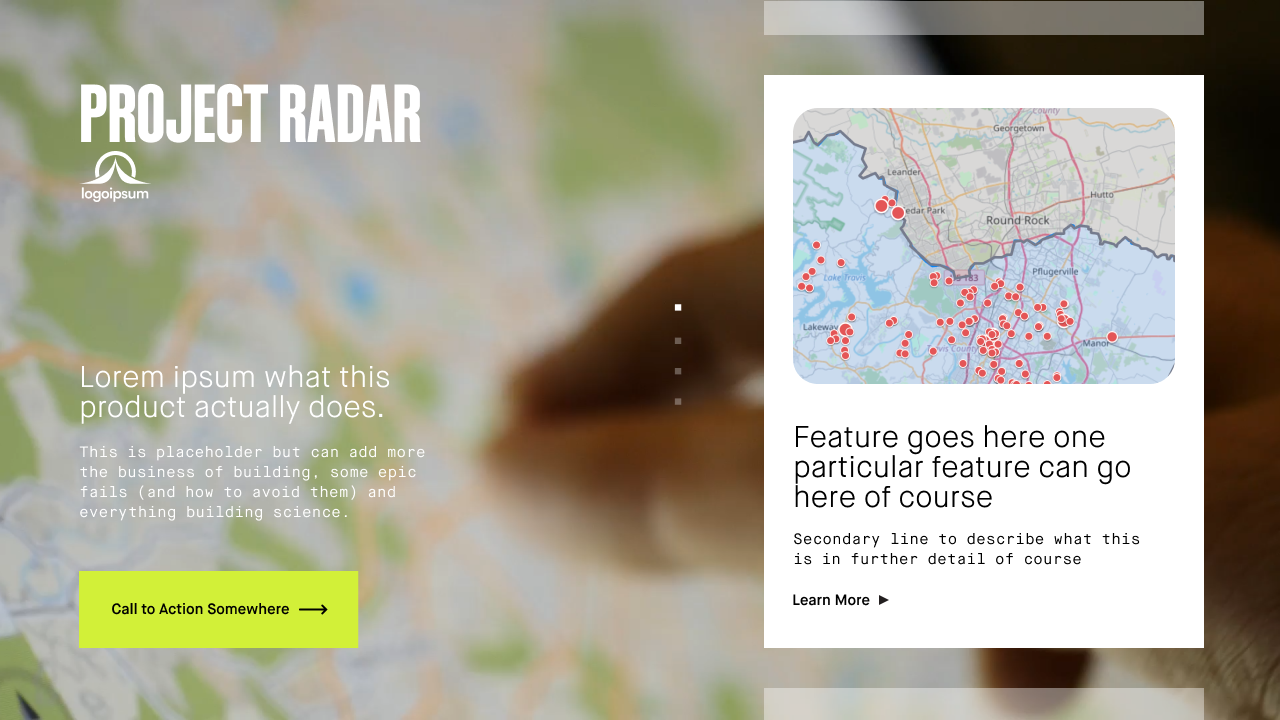
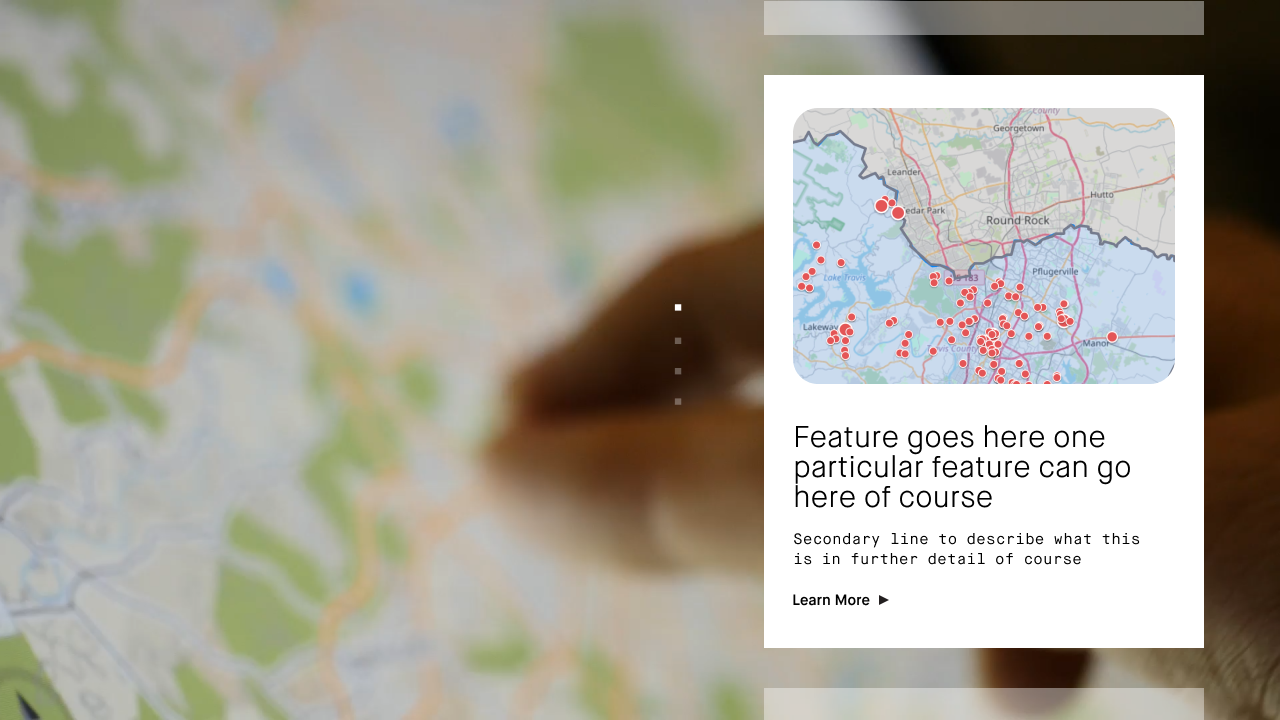
add-changes

diff --git a/src/components/GrowthPatners.jsx b/src/components/GrowthPatners.jsx
@@ -2,6 +2,7 @@ import React, { useState, useEffect } from 'react';
 import { useSearchParams } from 'react-router-dom';
 import CustomBoldHeadings from '../common/CustomBoldHeadings';
 import CustomHeading from '../common/CustomHeading';
+import { ButtonArrow, LogoIpsumIcon, NetWorkIcon } from '../utils/icons';
 
 const GrowthPartners = () => {
     const [searchParams, setSearchParams] = useSearchParams();
@@ -25,36 +26,48 @@ const GrowthPartners = () => {
     const renderTabContent = () => {
         if (activeTab === 1) {
             return (
-                <div className='tab-content'>
-                    <img
-                        src='/assets/images/png/growth-img-one.png'
-                        alt='Industry Expertise'
-                        className='w-full max-w-[1280px] mx-auto'
-                    />
+                <div className='bg-cover bg-no-repeat bg-center lg:bg-tabOneBgImg max-lg:bg-tabOneSmImg w-full max-w-[1280px] max-lg:h-full h-[720px] mx-auto'>
+                    <div className='ps-[79px] pt-[75px] max-lg:p-12 max-md:p-8 max-sm:p-5'>
+                        <h3 className='text-white font-bold text-custom8xl max-xl:text-6xl max-lg:text-5xl max-md:text-4xl font-sohne leading-[70px] max-w-[415px]'>the smartest minds in the
+                            industry</h3>
+                        <p className='max-w-[360px] font-light text-custom3xl max-md:text-2xl text-white leading-[30px]'>Answer our questions and listen to our answers.</p>
+                        <p className='max-w-[360px] mt-[31px] font-normal text-customsm font-maisonRegular leading-[20px] text-white'>This is placeholder but can add more the business of building, some epic fails (and how to avoid them) and everything building science.</p>
+                        <button className='max-lg:mb-6 max-sm:px-5 max-sm:py-4 max-sm:max-w-[245px] text-white font-medium font-maisonMedium text-customsm flex items-center py-[34.84px] px-[32px] border border-solid max-w-[256px] bg-[#FF4242] border-[#FF4242] gap-[10px] mt-[58px]'><NetWorkIcon /> Subscribe to Podcast <span className='text-[6px]'>▼</span></button>
+                        <div className=''>
+                            <img src="/assets/images/png/patners-logo-img.png" alt="logo" className='max-w-[189px] lg:hidden mx-auto' />
+                            <img src="/assets/images/png/tab-one-card.png" alt="card"  className='lg:hidden max-w-[320px] mt-5 mx-auto' />
+                        </div>
+                  </div>
                 </div>
             );
         }
 
         if (activeTab === 2) {
             return (
-                <div className='tab-content'>
-                    <img
-                        src='/assets/images/png/galaxy-img.png'
-                        alt='ROI Focused'
-                        className='w-full max-w-[1280px] mx-auto'
-                    />
+                <div className='bg-cover bg-no-repeat bg-center lg:bg-tabTwoBgImg max-lg:bg-tabTwoSmImg w-full max-w-[1337px] max-lg:h-full h-[720px] mx-auto'>
+                    <div className='pt-[75px] ps-[89px] max-lg:p-12 max-md:p-8 max-sm:p-5'>
+                    <h3 className='text-white font-bold text-custom8xl max-xl:text-6xl max-lg:text-5xl max-md:text-4xl font-sohne leading-[70px]'>Proven Results</h3>
+                        <p className='max-w-[360px] font-light text-custom3xl max-md:text-2xl max-lg:pb-7 text-white leading-[30px]'>Not hopes and prayers.</p>
+                        <img src="/assets/images/png/data-group.png" alt="data"  className='lg:hidden mx-auto'/>
+                        </div>
                 </div>
             );
         }
 
         if (activeTab === 3) {
             return (
-                <div className='tab-content'>
-                    <img
-                        src='/assets/images/png/project-rader-img.png'
-                        alt='Proprietary Technology'
-                        className='w-full max-w-[1280px] mx-auto'
-                    />
+                <div className='lg:bg-tabThreeBgImg max-lg:bg-tabThreeSmImg max-lg:h-full bg-cover bg-center bg-no-repeat w-full max-w-[1337px] h-[720px] mx-auto'>
+                    <div className='pt-[75px] ps-[79px] max-lg:p-12 max-md:p-8 max-sm:p-5'>
+                        <h3 className='text-white font-bold text-custom8xl max-xl:text-6xl max-lg:text-5xl max-md:text-4xl font-sohne leading-[70px]'>Project radar</h3>
+                        <p><LogoIpsumIcon /></p>
+                        <p className='pt-[162px] max-xl:pt-24 max-lg:pt-16 max-md:pt-11 max-sm:pt-8 max-w-[360px] font-light text-custom3xl max-md:text-2xl text-white leading-[30px]'>Lorem ipsum what this
+                            product actually does.</p>
+                        <p className='font-normal text-customsm leading-[20px] text-white font-maisonLight max-w-[360px] mt-[14px]'>This is placeholder but can add more the business of building, some epic fails (and how to avoid them) and everything building science.</p>
+                        <button className='max-lg:mb-6 mt-[57px] flex items-center text-black text-customsm font-semibold leading-[15px] py-[31px] gap-[10px] px-[28px] border border-solid bg-[#D2F038] border-[#D2F038] max-w-[274px]'>Call to Action Somewhere <ButtonArrow /> </button>
+                        <div className=''>
+                            <img src="/assets/images/png/card-data-img.png" alt="card-data" className='lg:hidden' />
+                        </div>
+                 </div>
                 </div>
             );
         }
@@ -71,9 +84,9 @@ const GrowthPartners = () => {
             </p>
 
             <div className='tabs-parent mt-[105px] max-xl:mt-16 max-lg:mt-10 max-md:mt-8 relative z-20'>
-                <div className='relative flex items-center justify-center gap-[78px]'>
+                <div className='relative max-md:overflow-x-scroll max-md:mx-auto max-md:gap-7 flex items-center justify-center gap-[78px]'>
                     <p
-                        className={`text-lg font-semibold text-black opacity-35 leading-[18px] font-maisonBold cursor-pointer ${activeTab === 1 ? 'text-black opacity-100' : ''
+                        className={`text-lg max-sm:text-base font-semibold  text-black opacity-35 leading-[18px] font-maisonBold cursor-pointer ${activeTab === 1 ? 'text-black !opacity-100' : ''
                             }`}
                         onClick={() => handleTabClick(1)}
                     >
@@ -87,7 +100,7 @@ const GrowthPartners = () => {
                         )}
                     </p>
                     <p
-                        className={`text-lg font-semibold text-black opacity-35 leading-[18px] font-maisonBold cursor-pointer ${activeTab === 2 ? 'text-black opacity-100' : ''
+                        className={`text-lg max-sm:text-base font-semibold text-black opacity-35 leading-[18px] font-maisonBold cursor-pointer ${activeTab === 2 ? 'text-black !opacity-100' : ''
                             }`}
                         onClick={() => handleTabClick(2)}
                     >
@@ -96,12 +109,12 @@ const GrowthPartners = () => {
                             <img
                                 src="/assets/images/png/tabs-bottm-red-line.png"
                                 alt="redline"
-                                className="mx-auto absolute"
+                                className="mx-auto absolute -translate-x-6"
                             />
                         )}
                     </p>
                     <p
-                        className={`text-lg font-semibold text-black opacity-35 leading-[18px] font-maisonBold cursor-pointer ${activeTab === 3 ? 'text-black opacity-100' : ''
+                        className={`text-lg max-sm:text-base font-semibold text-black opacity-35 leading-[18px] font-maisonBold cursor-pointer ${activeTab === 3 ? 'text-black !opacity-100' : ''
                             }`}
                         onClick={() => handleTabClick(3)}
                     >

diff --git a/src/utils/icons.js b/src/utils/icons.js
@@ -477,3 +477,88 @@ export const BtnArrow = () => (
     <path d="M10 5.00343L0 0V10L10 5.00343Z" fill="#231F20" />
   </svg>
 );
+
+export const NetWorkIcon = () => (
+  <svg
+    width="20"
+    height="23"
+    viewBox="0 0 20 23"
+    fill="none"
+    xmlns="http://www.w3.org/2000/svg"
+  >
+    <g clip-path="url(#clip0_583_5886)">
+      <path
+        d="M9.80992 12.9499C11.5441 12.9499 12.9499 11.5441 12.9499 9.80992C12.9499 8.07575 11.5441 6.66992 9.80992 6.66992C8.07575 6.66992 6.66992 8.07575 6.66992 9.80992C6.66992 11.5441 8.07575 12.9499 9.80992 12.9499Z"
+        fill="white"
+      />
+      <path
+        d="M10.8096 11.0601H8.80957V22.6801H10.8096V11.0601Z"
+        fill="white"
+      />
+      <path
+        d="M16.4202 9.80995C16.4202 6.16995 13.4602 3.19995 9.8102 3.19995C6.1602 3.19995 3.2002 6.15995 3.2002 9.80995C3.2002 12.39 4.6902 14.63 6.8602 15.71V14.57C5.2702 13.58 4.2002 11.82 4.2002 9.80995C4.2002 6.71995 6.7202 4.19995 9.8102 4.19995C12.9002 4.19995 15.4202 6.71995 15.4202 9.80995C15.4202 11.82 14.3602 13.58 12.7602 14.57V15.71C14.9202 14.62 16.4202 12.39 16.4202 9.79995V9.80995Z"
+        fill="white"
+      />
+      <path
+        d="M19.62 9.81C19.62 4.4 15.22 0 9.81 0C4.4 0 0 4.4 0 9.81C0 14.19 2.89 17.91 6.86 19.16V18.1C3.45 16.88 1 13.63 1 9.81C1 4.95 4.95 1 9.81 1C14.67 1 18.62 4.95 18.62 9.81C18.62 13.63 16.17 16.88 12.76 18.1V19.16C16.73 17.9 19.62 14.19 19.62 9.81Z"
+        fill="white"
+      />
+    </g>
+    <defs>
+      <clipPath id="clip0_583_5886">
+        <rect width="19.62" height="22.68" fill="white" />
+      </clipPath>
+    </defs>
+  </svg>
+);
+export const LogoIpsumIcon = () => (
+  <svg
+    width="73"
+    height="51"
+    viewBox="0 0 73 51"
+    fill="none"
+    xmlns="http://www.w3.org/2000/svg"
+  >
+    <path d="M4.71485 47.4124V36.4285H2.91406V47.4124H4.71485Z" fill="white" />
+    <path
+      d="M5.81738 43.7511C5.81738 45.9951 7.32298 47.5895 9.61084 47.5895C11.8987 47.5895 13.4043 45.9951 13.4043 43.7511C13.4043 41.507 11.8987 39.9126 9.61084 39.9126C7.32298 39.9126 5.81738 41.507 5.81738 43.7511ZM7.63291 43.7511C7.63291 42.4371 8.41525 41.5218 9.61084 41.5218C10.8064 41.5218 11.5888 42.4371 11.5888 43.7511C11.5888 45.0502 10.8064 45.9803 9.61084 45.9803C8.41525 45.9803 7.63291 45.0502 7.63291 43.7511Z"
+      fill="white"
+    />
+    <path
+      d="M14.0098 43.6032C14.0098 45.7291 15.3825 47.2645 17.4342 47.2645C18.497 47.2645 19.4121 46.8364 19.8697 46.1278V47.3678C19.8697 48.5636 19.1169 49.3609 17.8622 49.3609C16.7404 49.3609 15.9729 48.8146 15.8696 47.855H14.0541C14.2902 49.7595 15.7515 50.9996 17.7589 50.9996C20.1206 50.9996 21.6262 49.4494 21.6262 47.043V40.1191H20.0321L19.9287 41.1082C19.4859 40.3405 18.5708 39.8828 17.4932 39.8828C15.412 39.8828 14.0098 41.4625 14.0098 43.6032ZM15.8401 43.5589C15.8401 42.3483 16.6076 41.4625 17.7442 41.4625C18.9841 41.4625 19.8106 42.3631 19.8106 43.5589C19.8106 44.7695 18.9841 45.6996 17.7442 45.6996C16.6223 45.6996 15.8401 44.7843 15.8401 43.5589Z"
+      fill="white"
+    />
+    <path
+      d="M22.5176 43.7511C22.5176 45.9951 24.0232 47.5895 26.311 47.5895C28.5989 47.5895 30.1045 45.9951 30.1045 43.7511C30.1045 41.507 28.5989 39.9126 26.311 39.9126C24.0232 39.9126 22.5176 41.507 22.5176 43.7511ZM24.3331 43.7511C24.3331 42.4371 25.1154 41.5218 26.311 41.5218C27.5066 41.5218 28.2889 42.4371 28.2889 43.7511C28.2889 45.0502 27.5066 45.9803 26.311 45.9803C25.1154 45.9803 24.3331 45.0502 24.3331 43.7511Z"
+      fill="white"
+    />
+    <path
+      d="M32.053 38.628C32.6434 38.628 33.1306 38.1555 33.1306 37.5502C33.1306 36.9597 32.6434 36.4873 32.053 36.4873C31.4478 36.4873 30.9902 36.9597 30.9902 37.5502C30.9902 38.1555 31.4478 38.628 32.053 38.628ZM31.1526 47.4121H32.9534V40.1191H31.1526V47.4121Z"
+      fill="white"
+    />
+    <path
+      d="M34.5312 50.793H36.2877V46.4083C36.7453 47.1613 37.7343 47.6042 38.8265 47.6042C40.9816 47.6042 42.2657 45.9507 42.2362 43.6771C42.1919 41.3888 40.8783 39.8977 38.8117 39.8977C37.7048 39.8977 36.701 40.3849 36.2582 41.2264L36.1549 40.1192H34.5312V50.793ZM36.3615 43.7657C36.3615 42.4518 37.1586 41.5364 38.4132 41.5364C39.6679 41.5364 40.4206 42.4665 40.4206 43.7657C40.4206 45.0649 39.6679 45.9802 38.4132 45.9802C37.1586 45.9802 36.3615 45.0797 36.3615 43.7657Z"
+      fill="white"
+    />
+    <path
+      d="M42.6934 45.2273C42.7524 46.6741 43.8742 47.6042 45.6159 47.6042C47.3282 47.6042 48.4942 46.6889 48.4942 45.2716C48.4942 44.2234 47.8448 43.5147 46.6492 43.2195L45.365 42.9094C44.8189 42.7618 44.4499 42.5699 44.4499 42.0975C44.4499 41.5955 44.8484 41.2412 45.4978 41.2412C46.1769 41.2412 46.6197 41.625 46.6197 42.2599H48.2581C48.199 40.813 47.1215 39.8977 45.5421 39.8977C43.9775 39.8977 42.8115 40.813 42.8115 42.2008C42.8115 43.1457 43.3576 43.9281 44.7599 44.2972L46.0293 44.622C46.5016 44.7549 46.7968 44.9763 46.7968 45.3897C46.7968 45.9654 46.2507 46.2312 45.5864 46.2312C44.7894 46.2312 44.3318 45.8621 44.3318 45.2273H42.6934Z"
+      fill="white"
+    />
+    <path
+      d="M52.2293 47.6039C53.2182 47.6039 54.1629 47.1462 54.5909 46.4671L54.709 47.412H56.3918V40.1189H54.5909V43.9426C54.5909 45.2565 54.0891 45.9947 52.9083 45.9947C51.9932 45.9947 51.3584 45.5518 51.3584 44.0459V40.1189H49.5576V44.6808C49.5576 46.4228 50.5023 47.6039 52.2293 47.6039Z"
+      fill="white"
+    />
+    <path
+      d="M59.7822 47.4122V43.2195C59.7822 42.0384 60.4759 41.4774 61.3321 41.4774C62.1881 41.4774 62.7491 42.0236 62.7491 43.0571V47.4122H64.5056V43.2342C64.5056 42.0384 65.1845 41.4774 66.0407 41.4774C66.9115 41.4774 67.4725 42.0236 67.4725 43.0571V47.4122H69.2142V42.6437C69.2142 40.9607 68.2842 39.8977 66.513 39.8977C65.4059 39.8977 64.5351 40.4292 64.1808 41.2855C63.7823 40.4292 62.9853 39.8977 61.7749 39.8977C60.9188 39.8977 60.1512 40.2963 59.7232 40.9459L59.6346 40.1192H57.9814V47.4122H59.7822Z"
+      fill="white"
+    />
+    <path
+      d="M31.6833 26.4852C29.311 30.7545 24.4806 32.7857 19.5964 32.7857H0C20.4 30.2357 34.6071 20.0357 36.4285 5.82861C38.2499 20.0357 52.457 30.2357 72.857 32.7857H53.2606C48.3764 32.7857 43.546 30.7545 41.1737 26.4852C38.6059 21.8644 36.97 16.6358 36.4285 10.9286C35.887 16.6358 34.2511 21.8644 31.6833 26.4852Z"
+      fill="white"
+    />
+    <path
+      d="M20.4763 24.9763C19.3319 25.6206 18.1282 26.2257 16.8678 26.7894C16.1518 24.3162 15.8884 21.7214 16.0985 19.1366C16.3764 15.7171 17.4746 12.4204 19.2957 9.53866C21.1169 6.65694 23.6048 4.27903 26.539 2.61562C29.4733 0.952226 32.7633 0.0546497 36.1178 0.00241854C39.4722 -0.0498199 42.7874 0.744897 45.7698 2.31617C48.7522 3.88743 51.3097 6.18672 53.2157 9.01044C55.1218 11.8342 56.3176 15.0951 56.6972 18.5044C57.0077 21.293 56.7643 24.1105 55.9888 26.7894C54.7283 26.2257 53.5246 25.6205 52.3802 24.9763C52.8627 23.0177 52.9979 20.9802 52.7732 18.9615C52.467 16.2122 51.5027 13.5826 49.9657 11.3056C48.4286 9.02858 46.3663 7.17437 43.9612 5.90732C41.5562 4.64024 38.8828 3.99939 36.1779 4.04151C33.4728 4.08363 30.8197 4.80743 28.4536 6.14877C26.0875 7.49014 24.0812 9.40766 22.6126 11.7315C21.144 14.0554 20.2585 16.7138 20.0344 19.4713C19.8837 21.3248 20.0349 23.1847 20.4763 24.9763Z"
+      fill="white"
+    />
+  </svg>
+);

diff --git a/src/components/PrimaryInput.jsx b/src/components/PrimaryInput.jsx
@@ -8,9 +8,9 @@ const PrimaryInput = () => {
                   <p className='text-black text-customsm font-normal font-maisonRegular'>Get a free competitive analysis on your market</p>
                   <h3 className='font-normal text-black text-[40px] font-maisonLight'>Outsmart your competition</h3>
               </div>
-                  <img src="/assets/images/svg/green-curve-line.svg" alt="line" className='absolute translate-x-[33px] translate-y-9 ' />    
+                  <img src="/assets/images/svg/green-curve-line.svg" alt="line" className='max-xl:hidden  absolute translate-x-[33px] translate-y-9 ' />    
               <div className=''>
-                  <form className='bg-white flex items-center w-[446px] justify-between border-white border rounded-full'>
+                  <form className='bg-white flex items-center w-[446px] max-sm:w-[320px] justify-between border-white border rounded-full'>
                       
                           <input type="text" placeholder='Enter Your Website' required className='bg-transparent outline-none pb-4 pt-[21px] ps-[28px] text-black placeholder:text-black font-normal text-customsm' />
                           <button className='bg-transparent pe-[30px]'>Analyze</button>

diff --git a/tailwind.config.js b/tailwind.config.js
@@ -30,6 +30,12 @@ module.exports = {
         cardImgTwo: "url('/public/assets/images/png/off-dark-green-bg.png')",
         cardImgThree: "url('/public/assets/images/png/yellow-green-bg.png')",
         inputImg: "url('/public/assets/images/png/input-bg-img.png')",
+        tabOneBgImg: "url('/public/assets/images/png/growth-img-one.png')",
+        tabTwoBgImg: "url('/public/assets/images/png/galaxy-img.png')",
+        tabThreeBgImg: "url('/public/assets/images/png/project-rader-img.png')",
+        tabOneSmImg: "url('/public/assets/images/png/tab-one-sm-img.png')",
+        tabTwoSmImg: "url('/public/assets/images/png/tab-two-sm-img.png')",
+        tabThreeSmImg:"url('/public/assets/images/png/tab-three-sm-img.png')"
       },
     },
   },
